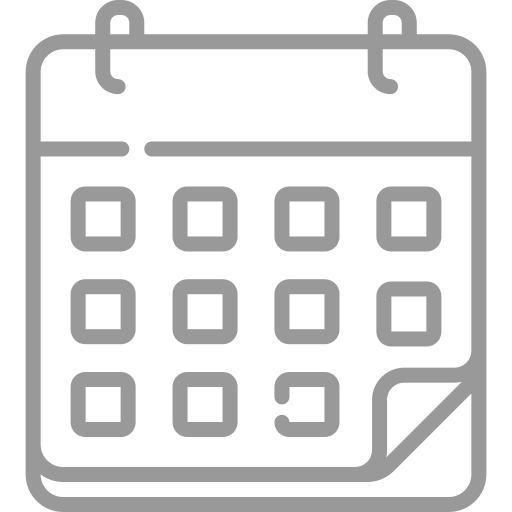
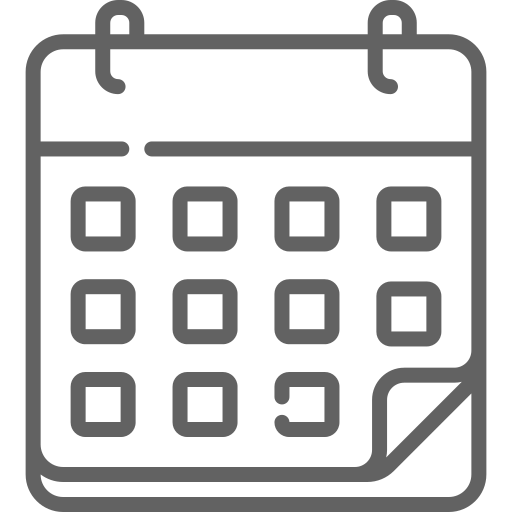
new upds

diff --git a/templates/agent/home/home.html b/templates/agent/home/home.html
@@ -68,61 +68,34 @@
 
 <div class="main-content-holder"><!--main-content-holder-->
 
-{% comment %} {% if investigations %}
-    <div class="white-wrapper"><!--white-wrapper-->
-    <h2 class="h2">Internal Report Approval Task</h2>
-    <table class="main-table">
-    <tbody>
-        {% for item in investigations %}
-        {% if item.internalreports %}
-        <form method="POST">{% csrf_token %}
-        <input type="hidden" name="investigationid" value="{{item.id}}" />
-        <input type="hidden" name="action_type" value="report_approve" />
-        <tr class="green-line">       
-        
-        <td class="hide-a" data-label="">{% if item.investigator.profile_image %}<img src="{{item.investigator.profile_image.url}}" title="{{item.investigator.name}}" class="profile-avatar">{% endif %}</td>
-
-        <td data-label="Ticket Number" class="bold-text">
-        {% for followup in item.followup %}
-        TKT{{followup.ticket_no}}
-        {% endfor %}</td>
-
-        <td onclick="submitAnyForm(this);"><button class="green-bg">Approve Internal Report</button></td>
-        
-        </tr>
-        </form>
-
-        {% endif %}
-        {% endfor %}
-    </tbody>
-    </table>
-    </div>
-
-{% endif %} {% endcomment %}
-
 {% if followup_to_be_closed %}
 <div class="white-wrapper"><!--white-wrapper-->
 <h2 class="h2">Case Closing Task</h2>
 <table class="main-table">
 <tbody>
 {% for follow_up in followup_to_be_closed %}
-{% if follow_up.followupcount|add:follow_up.paybackcount|add:follow_up.buybackpromocodecount > 0 and follow_up.followupcompletedcount|add:follow_up.paybackcount|add:follow_up.buybackpromocodecount == follow_up.followupcount|add:follow_up.paybackcompletedcount|add:follow_up.buybackpromocodecompletedcount %}
+{% if follow_up.followupcount|add:follow_up.paybackcount|add:follow_up.buybackpromocodecount|add:follow_up.internalreportcount > 0 and follow_up.followupcompletedcount|add:follow_up.paybackcount|add:follow_up.buybackpromocodecount|add:follow_up.internalreportcount == follow_up.followupcount|add:follow_up.paybackcompletedcount|add:follow_up.buybackpromocodecompletedcount|add:follow_up.internalreportcount %}
 <tr class="green-line">
-<td data-label="BLC Number" class="bold-text">TKT{{follow_up.ticket_no}}</td>
+<td data-label="BLC Number" class="bold-text"><a href="{% url 'agent:agent-ticketadvanced' follow_up.investigation.order_schedule.order.evaluation.customer.id follow_up.id %}" target="_blank">TKT{{follow_up.ticket_no}}</a></td>
 <td>
 {% for followup in follow_up.followupschedulers %}
 {% if forloop.first %}
-FollowUp Cleaning
+FollowUp Cleaning<br>
 {% endif %}
 {% endfor %}
 {% for payback in follow_up.investigation.paybackdiscount %}
 {% if forloop.first %}
-Payback / Discount
+Payback / Discount<br>
 {% endif %}
 {% endfor %}
 {% for buyback in follow_up.investigation.buybackpromocodegift %}
 {% if forloop.first %}
-BuyBack / Promocode /Gift
+BuyBack / Promocode /Gift<br>
+{% endif %}
+{% endfor %}
+{% for report in follow_up.investigation.internalreports %}
+{% if forloop.first %}
+Internal Report
 {% endif %}
 {% endfor %}
 
@@ -132,12 +105,13 @@ BuyBack / Promocode /Gift
 <td data-label="Area">{{follow_up.investigation.order_schedule.customer_address.area}}</td>
 <td class="hide-a" data-label=""><img src="{{follow_up.investigation.investigator.profile_image.url}}" class="profile-avatar" title="{{follow_up.investigation.investigator.name}}"></td>
 
-<td data-label="" class="followup_schedule_close clickable-cursor" data-blcno="{{follow_up.investigation.order.order_no}}" data-tktno="{{follow_up.ticket_no}}" 
+<td data-label="" class="followup_schedule_close clickable-cursor" data-tickettypes="{{follow_up.investigation.ticket_types}}" data-blcno="{{follow_up.investigation.order.order_no}}" data-tktno="{{follow_up.ticket_no}}" 
 {% for followup in follow_up.followupschedulers %}{% if forloop.first %}data-followup="FollowUp Cleaning"{% else %}data-followup=""{% endif %}{% endfor %}
 {% for payback in follow_up.investigation.paybackdiscount %}{% if forloop.first %}data-paybacktype="{{payback.approved_option|default_if_none:""}}"{% else %}data-paybacktype=""{% endif %}{% endfor %} 
 {% for buyback in follow_up.investigation.buybackpromocodegift %}{% if forloop.first %}data-buybacktype="{{buyback.approved_option|default_if_none:""}}"{% else %}data-buybacktype=""{% endif %}{% endfor %}
+{% for report in follow_up.investigation.internalreports %}{% if forloop.first %}data-internalreport="Internal Report"{% else %}data-internalreport=""{% endif %}{% endfor %}
 data-assigner="{{follow_up.investigation.assigned_by.name}}" data-investigator="{{follow_up.investigation.investigator.name}}"
-data-customer_name="{{follow_up.investigation.order.evaluation.customer.name}}" data-mobile_no="{{follow_up.investigation.order.evaluation.customer.mobile_number}}" data-area="{{follow_up.investigation.order_schedule.customer_address.area.name}}" data-service_type="{{follow_up.investigation.order_schedule.order_scheduler_book.service_type.name}}" data-id="{{follow_up.id}}"><span class="green-bg">Click to Close</span></td>
+data-customer_name="{{follow_up.investigation.order.evaluation.customer.name}}" data-mobile_no="{{follow_up.investigation.order.evaluation.customer.mobile_number}}" data-area="{{follow_up.investigation.order_schedule.customer_address.area.name}}" data-service_type="{{follow_up.investigation.order_schedule.order_scheduler_book.service_type.name}}" data-id="{{follow_up.id}}"><span class="green-bg">Click to View</span></td>
 
 </tr>
 {% endif %}
@@ -475,13 +449,21 @@ data-customer_name="{{follow_up.investigation.order.evaluation.customer.name}}" 
                 </tr>
             <tr><td><hr class="hr-dashedpad"></td></tr>  
             <tr>
-              <td id="followup_schedule_close_area_id"></td>  
+              <td><b>Area</b> : <span id="followup_schedule_close_area_id"></span></td>  
             </tr>
             <tr>
-              <td id="followup_schedule_close_service_type_id"></td>
+              <td><b>Service Type</b> : <span id="followup_schedule_close_service_type_id"></span></td>
             </tr>
+
             <tr>
             <tr><td><hr class="hr-dashedpad"></td></tr>
+            <tr><td><b>Ticket Types</b></td></tr>
+            <tr>
+            <td id="followup_schedule_close_ticket_types"></td></tr>
+
+            <tr>
+            <tr><td><hr class="hr-dashedpad"></td></tr>
+            <tr><td><b>Actions</b></td></tr>
             <tr>
             <td id="followup_schedule_close_followupcleaning"></td></tr>
             <tr>
@@ -489,6 +471,8 @@ data-customer_name="{{follow_up.investigation.order.evaluation.customer.name}}" 
             </tr>
             <tr>
             <td id="followup_schedule_close_buybacktype"></td></tr>
+            <tr>
+            <td id="followup_schedule_close_internalreport"></td></tr>
             <tr><td><hr class="hr-dashedpad"></td></tr>
             <tr>
             <td><b>Assigned By</b> : <span id="followup_schedule_close_assignedby"></span></td>
@@ -505,8 +489,9 @@ data-customer_name="{{follow_up.investigation.order.evaluation.customer.name}}" 
 <form method="post" enctype= "multipart/form-data">
 {%csrf_token%}
 <input type="hidden" name="action_type" value="followup_close">
-<input type="hidden" name="followup" id="followup_schedule_close_id">          
-<div align="center"> <input class="assignButton" name="assing" type="button" value="Close FollowUp" onclick="submitAnyForm(this);"></div>
+<input type="hidden" name="followup" id="followup_schedule_close_id"> 
+<input type="hidden" name="internalreport" id="followup_schedule_close_reportexists">          
+<div align="center"> <input class="assignButton" name="assing" type="button" value="Close Ticket" onclick="submitAnyForm(this);"></div>
 </form> 
 </div><!--ticket-wrapper-full--> 
             </div><!--content-->
@@ -1757,9 +1742,25 @@ $(".followup_schedule_close").click(function(){
     $("#followup_schedule_close_blc_id").html($(this).data('blcno'));
     $("#followup_schedule_close_assignedby").html($(this).data('assigner'));
     $("#followup_schedule_close_investigator").html($(this).data('investigator'));
+
+    $("#followup_schedule_close_ticket_types").html('');
+    $("#followup_schedule_close_ticket_types").html($(this).data('tickettypes'));
+
+    $("#followup_schedule_close_followupcleaning").html('');
     $("#followup_schedule_close_followupcleaning").html($(this).data('followup'));
+
+    $("#followup_schedule_close_paybacktype").html('');
     $("#followup_schedule_close_paybacktype").html($(this).data('paybacktype'));
+    
+    $("#followup_schedule_close_buybacktype").html('');
     $("#followup_schedule_close_buybacktype").html($(this).data('buybacktype'));
+    
+    $("#followup_schedule_close_internalreport").html('');
+    $("#followup_schedule_close_internalreport").html($(this).data('internalreport'));
+
+    $("#followup_schedule_close_reportexists").html('');
+    $("#followup_schedule_close_reportexists").val($(this).data('internalreport'));
+
     $("#followup_schedule_close_customer_id").html($(this).data('customer_name'));
     $("#followup_schedule_close_mobile_id").html($(this).data('mobile_no'));
     $("#followup_schedule_close_area_id").html($(this).data('area'));

diff --git a/templates/accountant/subscription/active_subscriptions.html b/templates/accountant/subscription/active_subscriptions.html
@@ -192,30 +192,32 @@
  
 <thead>
 <tr>
-<th data-hide="phone,tablet">Name</th>
-<th data-hide="phone">Mobile</th>
-<th>Complete/Total</th>
-<th data-hide="phone,tablet">Paid/Total</th>
+<th>BLC Number</th>
+<th data-hide="phone,tablet" style="text-align:center;">Name</th>
+<th data-hide="phone" style="text-align:center;">Mobile</th>
+<th data-hide="phone" style="text-align:center;">Complete/Total</th>
+<th data-hide="phone,tablet" style="text-align:center;">Paid/Total</th>
 {% comment %} <th>Contact</th> {% endcomment %}
-<th class="align-left" data-hide="phone,tablet">Status</th>
+<th style="text-align:center;" data-hide="phone,tablet">Status</th>
+<th data-hide="phone,tablet"></th>
 </tr>
 </thead>
 <tbody>
     {% for invoice in subscriptions %}
     <tr {% if invoice.evaluation.payment_way == 'CASH/CHEQUE' %}class="green-line"{% else %}class="gray-line"{% endif %}>
-    {% comment %} <td class="bold-text clickable-row" data-href="{% url 'accountant:accountant-client-orderdetails' invoice.id %}" data-label="BLC NUMBER">{{invoice.evaluation.evaluation_id}}</td> {% endcomment %}
-    <td data-label="CUSTOMER">{{invoice.evaluation.customer.name}}</td>
-    <td data-label="CONTACT NUMBER">{{invoice.evaluation.customer.mobile_number}}</td>
-    <td data-label="Colmpleted Cleaning">{{invoice.completed_cleanings_count}}/{{invoice.total_cleanings_count}}</td>
-    <td data-label="Completed Payment">{{invoice.dropzerosamountpaid|default_if_none:'0'}}/{{invoice.dropzerostotalamount|default_if_none:'0'}}</td>
+    <td class="bold-text" data-label="BLC NUMBER">{{invoice.evaluation.evaluation_id}}</td>
+    <td data-label="CUSTOMER" style="text-align:center;">{{invoice.evaluation.customer.name}}</td>
+    <td data-label="CONTACT NUMBER" style="text-align:center;">{{invoice.evaluation.customer.mobile_number}}</td>
+    <td data-label="Colmpleted Cleaning" style="text-align:center;">{{invoice.completed_cleanings_count}}/{{invoice.total_cleanings_count}}</td>
+    <td data-label="Completed Payment" style="text-align:center;">{{invoice.dropzerosamountpaid|default_if_none:'0'}}/{{invoice.dropzerostotalamount|default_if_none:'0'}}</td>
     
+    {% if invoice.balance <= 0 %}
+    <td data-label="Remining" class="green-text" style="text-align:center;font-size:19px;">{{invoice.balance|default_if_none:'0'}}</td>
+    {% else %}
+    <td data-label="Remining" class="red-text" style="text-align:center;font-size:19px;">{{invoice.balance|default_if_none:'0'}}</td>
+    {% endif %}
     
     <td data-label="">
-    {% if invoice.balance <= 0 %}
-    <span data-label="Remining" class="green-text">{{invoice.balance|default_if_none:'0'}}</span>
-    {% else %}
-    <span data-label="Remining" class="red-text">{{invoice.balance|default_if_none:'0'}}</span>
-    {% endif %}
     &nbsp
     <img src="{% static 'files/images/order_blue.png' %}" align="absmiddle" class="download-icon clickable-row" data-href="{% url 'accountant:accountant-client-orderdetails' invoice.id %}">&nbsp
     <img {% if invoice.balance <= 0 %}src="{% static 'files/images/send_invoice_green.png' %}"{% elif invoice.balance == 0%}src="{% static 'files/images/send_invoice_greay.png' %}"{% else %}src="{% static 'files/images/send_invoice_red.png' %}" {% endif %} align="absmiddle" class="download-icon clickable-cursor send_invoice" data-id="{{invoice.id}}" data-blcno="{{invoice.evaluation.evaluation_id}}" data-customername="{{invoice.evaluation.customer.mobile_number}}" data-contactno="{{invoice.evaluation.customer.name}}" {% for schedule in invoice.orderschedules %}{% if forloop.first %}data-startdate="{{schedule.start_at|date:'d-m-Y'}}" {% endif %}{% if forloop.last %}data-enddate="{{schedule.start_at|date:'d-m-Y'}}"{% endif %}{% endfor %} data-totalamount="{{invoice.total_amount|default_if_none:'0.000'|floatformat:'3'}}" data-paidamount="{{invoice.amount_paid|default_if_none:'0.000'|floatformat:'3'}}" data-balance="{{invoice.remining_amount|default_if_none:'0.000'|floatformat:'3'}}" data-remining="{{invoice.balance|default_if_none:'0.000'|floatformat:'3'}}">

diff --git a/templates/accountant/home/home.html b/templates/accountant/home/home.html
@@ -68,13 +68,15 @@
     <tbody>
         {% for ticket in approved_paybackdiscounts %}
         {% for paybackdiscount in  ticket.paybackdiscounts %}
-        <tr class="{% if ticket.days_left <= 2 %}green-line{% elif ticket.days_left > 2 and ticket.days_left <= 5 %}yellow-line{% elif ticket.days_left > 5 and ticket.days_left <= 7 %}orange-line{% else %}red-line{% endif %} clickable-row-list" data-href="#">
+        <tr class="{% if ticket.days_left <= 2 %}green-line{% elif ticket.days_left > 2 and ticket.days_left <= 5 %}yellow-line{% elif ticket.days_left > 5 and ticket.days_left <= 7 %}orange-line{% else %}red-line{% endif %}" >
         <td data-label="Ticket Number" class="bold-text">
         {% for followup in ticket.followup %}
         TKT{{followup.ticket_no}}
         {% endfor %}</td>
         {% comment %} <td data-label="Ticket Types">{{ticket.ticket_types}}</td> {% endcomment %}
         <td data-label="Action">Payback/Discount</td>
+        <td>{{paybackdiscount.investigation.order_schedule.order.evaluation.customer.name}}</td>
+        <td>{{paybackdiscount.investigation.order_schedule.order.evaluation.customer.mobile_number}}</td>
         <td class="hide-a" data-label="">{% if ticket.investigator.profile_image %}<img src="{{ticket.investigator.profile_image.url}}" title="{{ticket.investigator.name}}" class="profile-avatar">{% endif %}</td>
         <td data-label="" class="bold-text">{% if ticket.days_left <= 2 %}<h3 class="green-text-h3">{{ticket.days_left}}</h3> Days&#11014;{% elif ticket.days_left > 2 and ticket.days_left <= 5 %}<h3 class="yellow-text-h3">{{ticket.days_left}}</h3> Days&#11014;{% elif ticket.days_left > 5 and ticket.days_left <= 7 %}<h3 class="orange-text-h3">{{ticket.days_left}}</h3> Days&#11014;{% else %}<h3 class="red-text-h3">{{ticket.days_left}}</h3> Days&#11014;{% endif %}</td>
         <td data-label="">

diff --git a/templates/accountant/common/header.html b/templates/accountant/common/header.html
@@ -51,8 +51,8 @@
                 <li class="lhs-orders"><a href="{% url 'accountant:accountant-orders' %}" title="Orders"><span>Orders</span></a></li>
                 <li class="lhs-clients"><a href="{% url 'accountant:accountant-clients' %}" title="Clients"><span>Clients</span></a></li>
                 <li class="lhs-payments"><a href="{% url 'accountant:accountant-payments' %}" title="Payments"><span>Payments</span></a></li>
+                <li class="lhs-activesubscriptions"><a href="{% url 'accountant:accountant-active-subscriptions' %}" title="Active Subscriptions"><span>Subscriptions</span></a></li>
                 <br> <br>
-                <li class="lhs-activesubscriptions cap"><a href="{% url 'accountant:accountant-active-subscriptions' %}" title="Active Subscriptions"><span>Subscriptions</span></a></li>
                 <li class="lhs-collection cap"><a href="{% url 'accountant:accountant-cashcollect' %}" title="New Enquiry"><span>Collection</span></a></li>
                 <li class="lhs-finewriteoff cap"><a href="{% url 'accountant:accountant-finewriteback' %}" title="Fine/Write-Off"><span>Fine/Write-Off</span></a></li>
              </ul>

diff --git a/agent/views.py b/agent/views.py
@@ -859,13 +859,10 @@ class AgentHome(IsAgent,View):
 		#for popup
 		customer_addresses = Address.objects.filter(is_active=True,currently_active=True).select_related('area')
 
-		#internalreport approval
-		investigations = Investigation.objects.filter(is_active=True,is_internalreporting_approved=False).prefetch_related(Prefetch('followup_investigation',queryset=FollowUp.objects.filter(is_active=True),to_attr='followup'),Prefetch('reporting_investigation',queryset=Reporting.objects.filter(is_active=True,investigation__is_internalreporting_approved=False),to_attr='internalreports'))
-
 		#followup confirmation for special user
-		followup_to_be_closed = FollowUp.objects.filter(is_active=True,status='FOLLOWUP_IN_PROGRESS',).select_related('investigation','investigation__order_schedule__customer_address__area','investigation__order_schedule__order_scheduler_book__service_type','investigation__investigator','investigation__order__evaluation__customer').prefetch_related(Prefetch('follow_up_of_scheduler',queryset=FollowUpScheduler.objects.filter(is_active=True),to_attr='followupschedulers'),Prefetch('investigation__paybackdiscount_investigation',queryset=PaybackDiscount.objects.filter(is_active=True),to_attr='paybackdiscount'),Prefetch('investigation__reporting_investigation',queryset=Reporting.objects.filter(is_active=True),to_attr='internalreports'),Prefetch('investigation__buybackpromocodegift_investigation',queryset=BuybackPromocodeGift.objects.filter(is_active=True),to_attr='buybackpromocodegift')).annotate(followupcount=Case(When(follow_up_of_scheduler__is_active=True,then=1),default=0,output_field=IntegerField()), followupcompletedcount=Case(When(follow_up_of_scheduler__work_status='FOLLOW_UP_CLEANING_FULFILLED',then=1),default=0,output_field=IntegerField()), paybackcount=Case(When(investigation__paybackdiscount_investigation__is_active=True,then=1),default=0,output_field=IntegerField()), paybackcompletedcount=Case(When(investigation__paybackdiscount_investigation__is_completed=True,then=1),default=0,output_field=IntegerField()), buybackpromocodecount=Case(When(investigation__buybackpromocodegift_investigation__is_active=True,then=1),default=0,output_field=IntegerField()), buybackpromocodecompletedcount=Case(When(investigation__buybackpromocodegift_investigation__is_completed=True,then=1),default=0,output_field=IntegerField()))
+		followup_to_be_closed = FollowUp.objects.filter(is_active=True,status='FOLLOWUP_IN_PROGRESS',).select_related('investigation','investigation__order_schedule__customer_address__area','investigation__order_schedule__order_scheduler_book__service_type','investigation__investigator','investigation__order__evaluation__customer').prefetch_related(Prefetch('follow_up_of_scheduler',queryset=FollowUpScheduler.objects.filter(is_active=True),to_attr='followupschedulers'),Prefetch('investigation__paybackdiscount_investigation',queryset=PaybackDiscount.objects.filter(is_active=True),to_attr='paybackdiscount'),Prefetch('investigation__reporting_investigation',queryset=Reporting.objects.filter(is_active=True),to_attr='internalreports'),Prefetch('investigation__buybackpromocodegift_investigation',queryset=BuybackPromocodeGift.objects.filter(is_active=True),to_attr='buybackpromocodegift')).annotate(followupcount=Case(When(follow_up_of_scheduler__is_active=True,then=1),default=0,output_field=IntegerField()), followupcompletedcount=Case(When(follow_up_of_scheduler__work_status='FOLLOW_UP_CLEANING_FULFILLED',then=1),default=0,output_field=IntegerField()), paybackcount=Case(When(investigation__paybackdiscount_investigation__is_active=True,then=1),default=0,output_field=IntegerField()), paybackcompletedcount=Case(When(investigation__paybackdiscount_investigation__is_completed=True,then=1),default=0,output_field=IntegerField()), buybackpromocodecount=Case(When(investigation__buybackpromocodegift_investigation__is_active=True,then=1),default=0,output_field=IntegerField()), buybackpromocodecompletedcount=Case(When(investigation__buybackpromocodegift_investigation__is_completed=True,then=1),default=0,output_field=IntegerField()) ,internalreportcount=Case(When(investigation__reporting_investigation__is_active=True,then=1),default=0,output_field=IntegerField()))
 				
-		return render(request,'agent/home/home.html',{'today_enquiry_count':today_enquiry_count,'week_enquiry_count':week_enquiry_count,'month_average_feedback':month_average_feedback,'lastmonth_average_feedback':lastmonth_average_feedback,'cleaning_job':cleaning_job,'today_cleaning_job_count':today_cleaning_job_count,'week_cleaning_job_count':week_cleaning_job_count,'follow_up_job':follow_up_job,'today_follow_up_job_count':today_follow_up_job_count,'week_follow_up_job_count':week_follow_up_job_count,'evaluation_details':evaluation_details,'evaluation_date':evaluation_date,'calendar_order_schedules':calendar_order_schedules,'calendar_followup_schedules':calendar_followup_schedules,'sp_calendar_order_schedules':sp_calendar_order_schedules,'sp_calendar_followup_schedules':sp_calendar_followup_schedules,'spp_calendar_order_schedules':spp_calendar_order_schedules,'spp_calendar_followup_schedules':spp_calendar_followup_schedules,'schedule_date':schedule_date,'workers':workers,"customer_addresses":customer_addresses,"followup_to_be_closed":followup_to_be_closed,"investigations":investigations,"calendar_notapprovedorder_schedules":calendar_notapprovedorder_schedules,"sp_calendar_notapprovedorder_schedules":sp_calendar_notapprovedorder_schedules,"spp_calendar_notapprovedorder_schedules":spp_calendar_notapprovedorder_schedules,})
+		return render(request,'agent/home/home.html',{'today_enquiry_count':today_enquiry_count,'week_enquiry_count':week_enquiry_count,'month_average_feedback':month_average_feedback,'lastmonth_average_feedback':lastmonth_average_feedback,'cleaning_job':cleaning_job,'today_cleaning_job_count':today_cleaning_job_count,'week_cleaning_job_count':week_cleaning_job_count,'follow_up_job':follow_up_job,'today_follow_up_job_count':today_follow_up_job_count,'week_follow_up_job_count':week_follow_up_job_count,'evaluation_details':evaluation_details,'evaluation_date':evaluation_date,'calendar_order_schedules':calendar_order_schedules,'calendar_followup_schedules':calendar_followup_schedules,'sp_calendar_order_schedules':sp_calendar_order_schedules,'sp_calendar_followup_schedules':sp_calendar_followup_schedules,'spp_calendar_order_schedules':spp_calendar_order_schedules,'spp_calendar_followup_schedules':spp_calendar_followup_schedules,'schedule_date':schedule_date,'workers':workers,"customer_addresses":customer_addresses,"followup_to_be_closed":followup_to_be_closed,"calendar_notapprovedorder_schedules":calendar_notapprovedorder_schedules,"sp_calendar_notapprovedorder_schedules":sp_calendar_notapprovedorder_schedules,"spp_calendar_notapprovedorder_schedules":spp_calendar_notapprovedorder_schedules,})
 
 
 	def post(self,request):
@@ -912,15 +909,20 @@ class AgentHome(IsAgent,View):
 		# 			OrderScheduler.objects.filter(id=schedule_id).update(start_at=start_at,end_at=end_at)
 			
 		# 	messages.success(request,"Cleaning Date(s) Confirmed/Changed Successfully")
-
-		if action_mode == 'report_approve':
-			investigation = Investigation.objects.filter(is_active=True,id=int(request.POST.get('investigationid'))).first()
-			investigation.is_internalreporting_approved = True
-			investigation.save()
-			messages.success(request,"Internal Report Approved Successfully")
 		
 		if action_mode == 'followup_close':
-			followup = FollowUp.objects.filter(id=request.POST.get('followup')).update(status='FOLLOWUP_CLOSED')
+			followup = FollowUp.objects.filter(id=request.POST.get('followup')).first()
+			investigationid = followup.investigation.id
+			followup.status = 'FOLLOWUP_CLOSED'
+			followup.save()
+
+			report = request.POST.get('internalreport')
+			
+			if report == 'Internal Report':
+				investigation = Investigation.objects.filter(is_active=True,id=int(investigationid)).first()
+				investigation.is_internalreporting_approved = True
+				investigation.save()
+
 			messages.success(request,"Followup Closed Successfully")
 
 		elif action_mode == 'edit_evaluation':